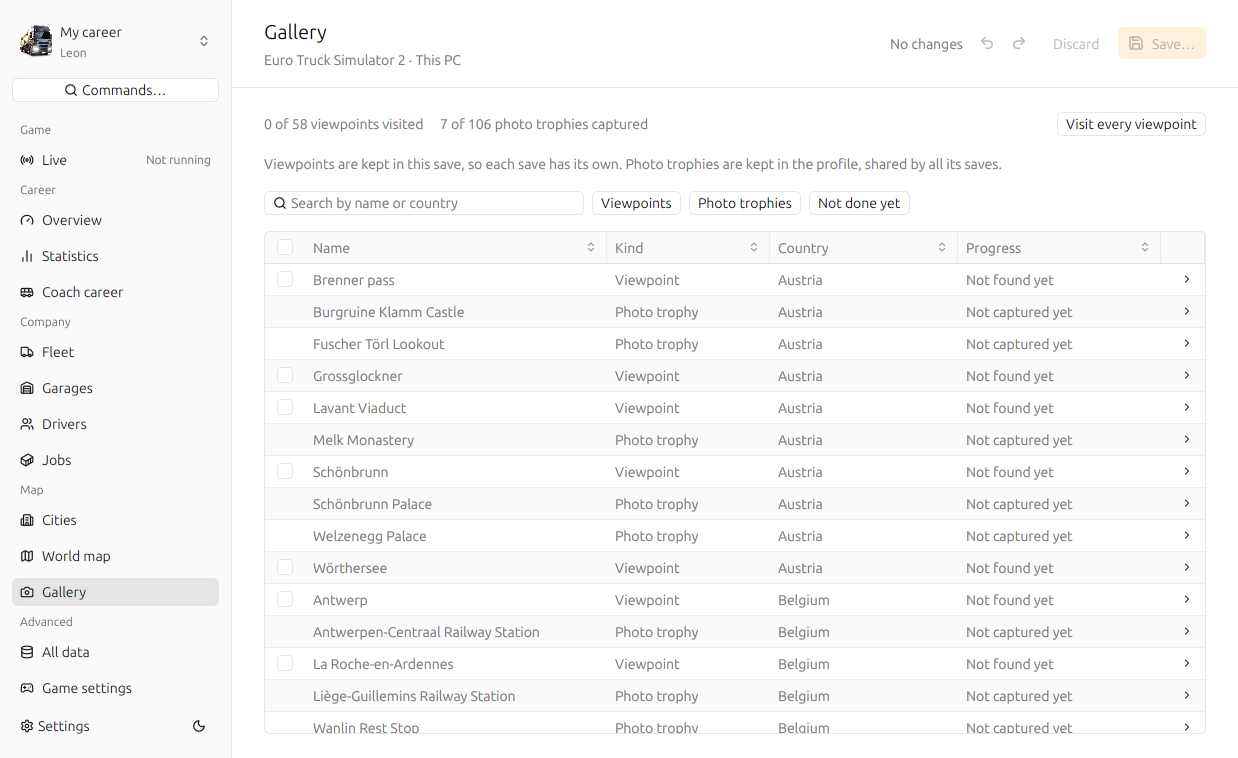
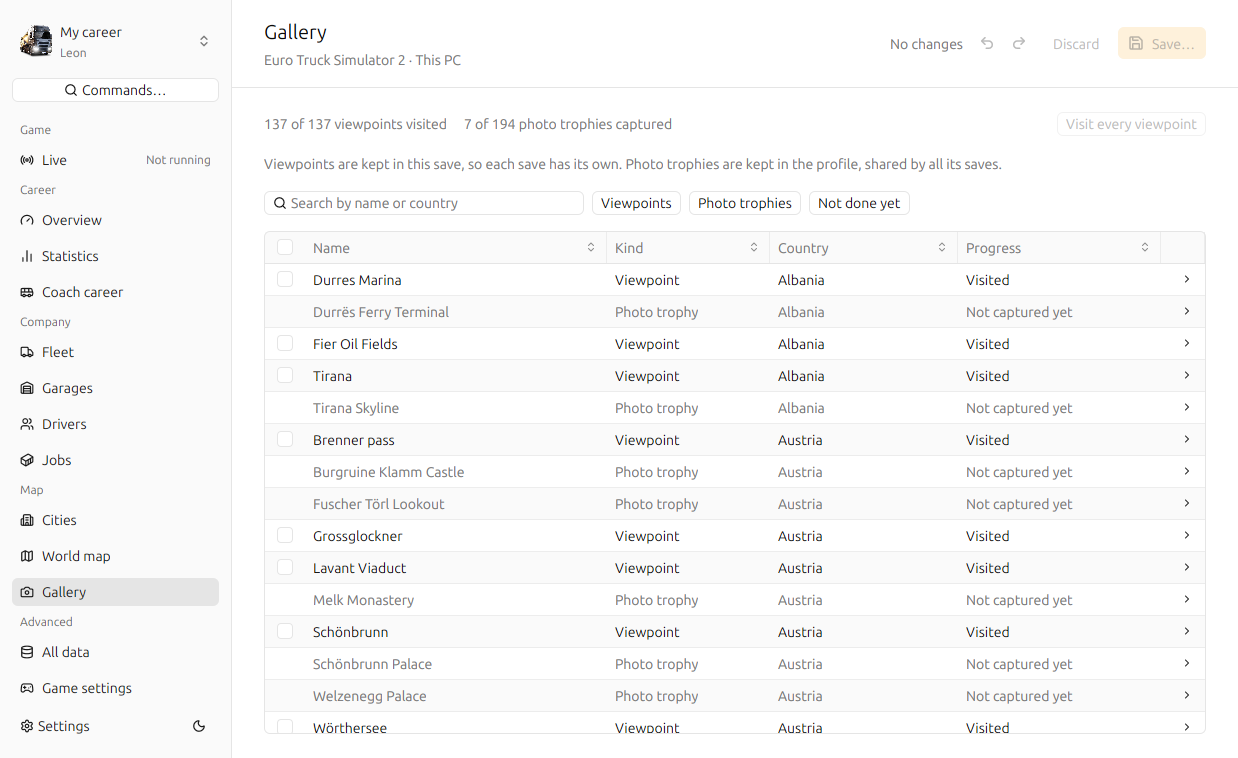
docs: pictures retaken from the usual save copies
- The 0.5.1 pictures were taken from an older, emptier save copy: no money on the start screen, deliveries from years ago, few roads driven on the map. Retaken from the copies the earlier pictures came from, with both games on the start screen
- scripts/screenshots.sh uses those copies when none are named (scripts/screenshots.sh [version]), and says so when no ATS copy is given
- The release picture of Cities picks five rows, so the bar shows every action

diff --git a/AGENTS.md b/AGENTS.md
@@ -107,7 +107,7 @@ Dependencies point downward: `app` → `gamedata` → `save` → `sii`, `gamedat
 
 - **Formats:** round-trip tests (decrypt → decode → write text → parse gives an equal document) on synthetic samples, and on fixtures when present.
 - **UI by eye:** `scripts/drive.sh <slot copy> <steps file> <out folder>` is the quick way: the app drives itself through steps (`page fleet`, `theme dark`, `run <palette command>`, `open truck` (or `trailer`, `coach`: the first one's panel), `close`, `wait <ms>`, `shot <name>`) once its data has loaded, saves the pictures and quits, in seconds. `scripts/look.sh` starts the dev build under WSLg, captures just its window to a PNG, and clicks or types into it (`start`, `shot`, `click`, `park`, `keys`, `stop`), for what steps can't reach yet (a row's panel, dragging). In development builds, `TSE_PAGE=fleet` opens a page on launch and `TSE_THEME=dark` (or `light`) picks the theme. `TSE_FAKE_UPDATE=0.9.0` pretends a newer version is out (no network). `TSE_LIVE_FAKE=1` shows Live with an invented drive (no game). `TSE_PROFILE_DIRS` adds folders of profiles to look in, and `TSE_PROFILE_DIRS_ONLY=1` looks only there (the start screen as on a PC without the game). `TSE_CRASH=1` crashes on purpose, to see the crash report written (`crash.rs`) and offered on the next start. `TSE_SLOT=<slot folder>` opens a slot copy directly (`TSE_GAME=ats` for an ATS one), `TSE_FIND_CITY=hamburg` opens World map on a city, `TSE_READY_FILE=<path>` is written once the game's data and map have loaded, and `TSE_SCRIPT=<file>` drives the app through steps (pages, themes, palette commands, pictures; `crates/app/src/dev_script.rs`). Look at every changed screen in both themes, and drive the flow you changed (click, type, Esc, click away) before calling it done. Windows behaviour (paths, fonts, DPI, speed) is only real in the Windows build (`mise run win-run`).
-- **Screenshots:** `scripts/screenshots.sh <slot copy> [version] [ATS slot copy]` takes every README picture (light and dark: the pages, the save dialog, the start screen) and a release's (dark) in one run of about a minute, from made-up demo profiles (`scripts/demo-profile.py`: invented money, experience, plates and names), so no picture shows a real save. Every picture in the README comes from it: a new one gets a step there, never a hand-taken shot. The one exception is `docs/screenshots/live.gif` (Live needs the game running): recorded by the owner in the game, and theirs to replace. Rerun it when a page shown in the README changes, and look at every picture before committing.
+- **Screenshots:** `scripts/screenshots.sh [version]` (or `<slot copy> [version] [ATS slot copy]` to name the copies; without, the usual ones in `fixtures/`, so a retake shows the same career as the picture it replaces: compare the two) takes every README picture (light and dark: the pages, the save dialog, the start screen) and a release's (dark) in one run of about a minute, from made-up demo profiles (`scripts/demo-profile.py`: invented money, experience, plates and names), so no picture shows a real save. Every picture in the README comes from it: a new one gets a step there, never a hand-taken shot. The one exception is `docs/screenshots/live.gif` (Live needs the game running): recorded by the owner in the game, and theirs to replace. Rerun it when a page shown in the README changes, and look at every picture before committing.
 - **UI integration tests** (`#[gpui_kit::test]`, see the `gpui-kit` skill's `test.md`): give each user action its own `cx.update_window(…)` followed by `cx.run_until_parked()`, because entity events are only delivered between updates; and call `window.activate_window()` first, because a headless window starts inactive and an inactive window gets no focus or blur events. `crates/app/src/ui/amount_field.rs` has a worked example.
 - **Design:** check every changed screen in both themes, and run the Design Guides' review checklist (`.claude/skills/gpui-kit-design-guides`).
 - **In game:** only the owner can check. Ask with the exact slot, what was changed and what to look for, and say how to restore the backup.

diff --git a/docs/releasing.md b/docs/releasing.md
@@ -15,7 +15,7 @@ The .exe carries its version, product name and copyright in its file details (`c
 
 1. **Check it in game.** Changes to how saves are written need the owner's in-game check (see `AGENTS.md`). Note what's still untried in `TODO.md`.
 2. **Write the notes**: `docs/release-notes/<version>.md`, for players (see the earlier versions; `mise run release-notes` shows the commits to start from). New, Changed, Fixed; only what changed since the last release (check the last notes so nothing from them is repeated), and no claim the editor doesn't fully meet. The release workflow uses this file as the release's notes, and adds the Download and Check the download sections (`.github/release-footer.md`); without it, the notes are drafted from the commits. A `Headline:` line in its opening comment adds to the release's title (`Headline: American Truck Simulator support` → "Truck Save Editor 0.4.0: American Truck Simulator support"), for a release with one big change.
-3. **Take the pictures**: `scripts/screenshots.sh <slot copy> <version> [ATS slot copy]` (about a minute, from made-up demo profiles; see `AGENTS.md` → Verifying). It refreshes the README's pictures in `docs/screenshots/` and puts the release's in `docs/release-notes/<version>/`. Look at every one, and keep only those the notes use.
+3. **Take the pictures**: `scripts/screenshots.sh <version>` (about a minute, from made-up demo profiles; see `AGENTS.md` → Verifying). With no folders named it uses the save copies every picture so far came from; name others only on purpose, since an older or emptier save gives emptier pictures (no money on the start screen, old deliveries, few roads driven). Compare each retaken picture with the one it replaces (`git diff` shows them changed; open both). It refreshes the README's pictures in `docs/screenshots/` and puts the release's in `docs/release-notes/<version>/`. Look at every one, and keep only those the notes use.
 4. **Commit in this order**, so the notes can link pictures that exist:
    1. the work itself (`feat:`, `fix:` …);
    2. the pictures and the README (`docs:`);
